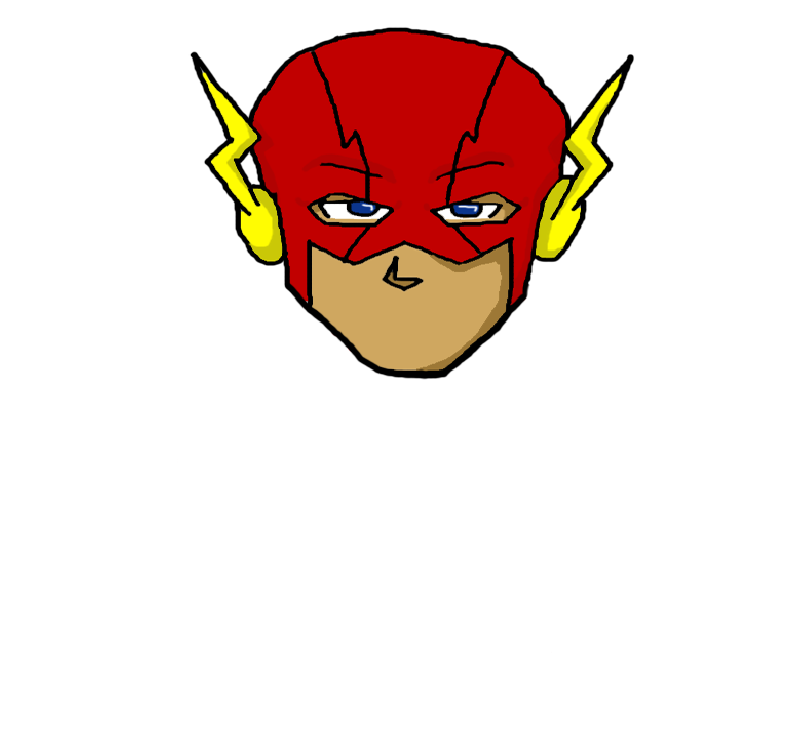
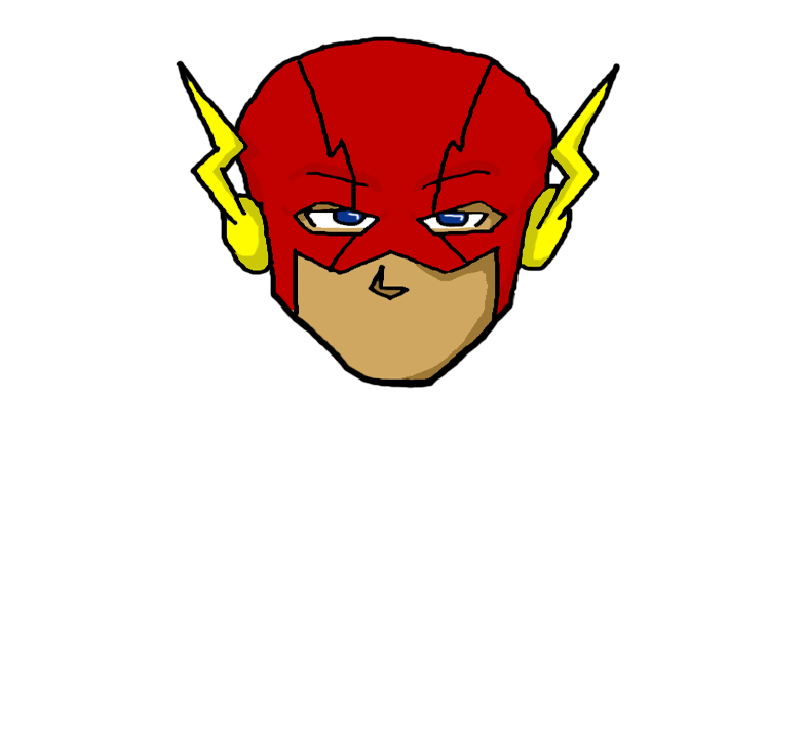
last commit

Changed region(s): [[0.2188, 0.0307, 0.8125, 0.5213]]

diff --git a/Picture Imperfect/GameScreen.cs b/Picture Imperfect/GameScreen.cs
@@ -7,28 +7,108 @@ using System.Linq;
 using System.Text;
 using System.Threading.Tasks;
 using System.Windows.Forms;
+using System.Threading;
 
 namespace Picture_Imperfect
 {
     public partial class GameScreen : UserControl
     {
+        //labelcountdown, sleep
+        //isnt able to stop the animation
+        //lock in body part
+        //work on the next body part 
+        //copyscreen needs to have random parts selected put into fullybody class
+        //compare to copyscreen
+        //work on player 2
+
+        
+        Graphics g;
+        Graphics hG;
+        Bitmap btm;
+        animation animateHead;
+        animation animateMouth;
+        animation animateShirt;
+        animation animateSymbol;
+
         public GameScreen()
         {
-            InitializeComponent();
-           
+            InitializeComponent();           
         }
 
         private void GameScreen_Paint(object sender, PaintEventArgs e)
         {
-            e.Graphics.DrawImage(Properties.Resources.Base, 30, 0, 372, 339);
+            e.Graphics.DrawImage(Properties.Resources.Base, 24, 0, 372, 339);
+            //have a buttonclickcount so that it can skip that animations to the next set
 
-            if ()
-            {
-            }
-            //e.Graphics.DrawImage(CopyScreen.body[6], 20, 23, 372, 339); //Shirt
-            //e.Graphics.DrawImage(CopyScreen.body[11], 20, 23, 372, 339); //Symbol
-            //e.Graphics.DrawImage(CopyScreen.body[0], 20, 23, 372, 339); //Head
-            //e.Graphics.DrawImage(CopyScreen.body[1], 20, 23, 372, 339); //Mouth
+            
+                //count down from 3, text in the middle of the screen
+                //when count == 0
+                //make it loop the head image in the list . 0,4,8
+                //lock the int of the chosen head to the string                         
+                
         }
+
+        private void GameScreen_Load(object sender, EventArgs e)
+        {
+            for (int x = 3; x >= 0; x--)
+            {
+                labelCountDown.Text = Convert.ToString(x);
+                Refresh();
+                Thread.Sleep(100);               
+            }
+            if (labelCountDown.Text == "0")
+            {
+                timer1.Start();
+            }
+
+            g = this.CreateGraphics();
+            btm = new Bitmap (372, 339);                   
+            hG = Graphics.FromImage(btm);
+
+           animateHead = new animation(new Bitmap[] {Properties.Resources.Flash_Head, Properties.Resources.SHead_Size,
+                Properties.Resources.Captain_America_Head});
+
+           animateMouth = new animation(new Bitmap[] {Properties.Resources.Flash_Mouth, Properties.Resources.SMouth_Size,
+                Properties.Resources.Captain_America_Mouth});
+
+           animateShirt = new animation(new Bitmap[] {Properties.Resources.Flash_Shirt, Properties.Resources.S_Shirt_size,
+                Properties.Resources.Captain_America_Shirt});
+
+           animateSymbol = new animation(new Bitmap[] {Properties.Resources.Flash_Symbol, Properties.Resources.Symbol_Size,
+                Properties.Resources.Captain_America_Symbol});             
+        }       
+
+        private void timer1_Tick(object sender, EventArgs e)
+        {
+            hG.DrawImage(animateHead.GiveNextImage(),20,23,372,339);
+            g.DrawImage(btm, Point.Empty);            
+        }
+
+        private void timer2_Tick(object sender, EventArgs e)
+        {            
+            hG.DrawImage(animateMouth.GiveNextImage(), 20, 23, 372, 339);
+            g.DrawImage(btm, Point.Empty);
+        }
+
+        private void GameScreen_PreviewKeyDown(object sender, PreviewKeyDownEventArgs e)
+        {
+            this.Focus();
+            switch (e.KeyCode)
+            {
+                case Keys.B:
+                    timer1.Stop();                                      
+                    timer2.Start();         
+                    break;
+                case Keys.C:
+                    
+                    break;
+                default:
+                    break;
+            }
+        }
+
+       
+
+       
     }
 }

diff --git a/Picture Imperfect/GameScreen.Designer.cs b/Picture Imperfect/GameScreen.Designer.cs
@@ -28,12 +28,17 @@
         /// </summary>
         private void InitializeComponent()
         {
+            this.components = new System.ComponentModel.Container();
             this.pictureBox1 = new System.Windows.Forms.PictureBox();
+            this.labelCountDown = new System.Windows.Forms.Label();
+            this.timer1 = new System.Windows.Forms.Timer(this.components);
+            this.timer2 = new System.Windows.Forms.Timer(this.components);
             ((System.ComponentModel.ISupportInitialize)(this.pictureBox1)).BeginInit();
             this.SuspendLayout();
             // 
             // pictureBox1
             // 
+            this.pictureBox1.Image = global::Picture_Imperfect.Properties.Resources.Base;
             this.pictureBox1.Location = new System.Drawing.Point(17, 395);
             this.pictureBox1.Name = "pictureBox1";
             this.pictureBox1.Size = new System.Drawing.Size(372, 339);
@@ -41,22 +46,51 @@
             this.pictureBox1.TabIndex = 0;
             this.pictureBox1.TabStop = false;
             // 
+            // labelCountDown
+            // 
+            this.labelCountDown.AutoSize = true;
+            this.labelCountDown.BackColor = System.Drawing.Color.Lime;
+            this.labelCountDown.Font = new System.Drawing.Font("OCR A Std", 71.99999F, System.Drawing.FontStyle.Bold, System.Drawing.GraphicsUnit.Point, ((byte)(0)));
+            this.labelCountDown.Location = new System.Drawing.Point(350, 315);
+            this.labelCountDown.Name = "labelCountDown";
+            this.labelCountDown.Size = new System.Drawing.Size(115, 102);
+            this.labelCountDown.TabIndex = 1;
+            this.labelCountDown.Text = "3";
+            // 
+            // timer1
+            // 
+            this.timer1.Interval = 500;
+            this.timer1.Tick += new System.EventHandler(this.timer1_Tick);
+            // 
+            // timer2
+            // 
+            this.timer2.Interval = 500;
+            this.timer2.Tick += new System.EventHandler(this.timer2_Tick);
+            // 
             // GameScreen
             // 
             this.AutoScaleDimensions = new System.Drawing.SizeF(6F, 13F);
             this.AutoScaleMode = System.Windows.Forms.AutoScaleMode.Font;
             this.BackgroundImage = global::Picture_Imperfect.Properties.Resources.Game_Screen_White;
+            this.Controls.Add(this.labelCountDown);
             this.Controls.Add(this.pictureBox1);
+            this.DoubleBuffered = true;
             this.Name = "GameScreen";
             this.Size = new System.Drawing.Size(800, 750);
+            this.Load += new System.EventHandler(this.GameScreen_Load);
             this.Paint += new System.Windows.Forms.PaintEventHandler(this.GameScreen_Paint);
+            this.PreviewKeyDown += new System.Windows.Forms.PreviewKeyDownEventHandler(this.GameScreen_PreviewKeyDown);
             ((System.ComponentModel.ISupportInitialize)(this.pictureBox1)).EndInit();
             this.ResumeLayout(false);
+            this.PerformLayout();
 
         }
 
         #endregion
 
         private System.Windows.Forms.PictureBox pictureBox1;
+        private System.Windows.Forms.Label labelCountDown;
+        private System.Windows.Forms.Timer timer1;
+        private System.Windows.Forms.Timer timer2;
     }
 }

diff --git a/Picture Imperfect/CopyScreen.cs b/Picture Imperfect/CopyScreen.cs
@@ -18,11 +18,21 @@ namespace Picture_Imperfect
         //make game go through the order and pause and lock in keypress
         //high score XML file
 
-        public static Image[] body;
 
+        public static Image[] body;
+        int partNum;
+        int shirt;
+        int symbol;
+        int mouth;
+        int head;
+        Random ranNum = new Random();
+        
+     
         public CopyScreen()
         {
             InitializeComponent();
+
+            partNum = ranNum.Next(1, 4);
 
             body = new Image[20];
             body[0] = Properties.Resources.Flash_Head;
@@ -43,12 +53,46 @@ namespace Picture_Imperfect
 
         private void CopyScreen_Paint(object sender, PaintEventArgs e)
         {
-            e.Graphics.DrawImage(body[6], 0, 0, 800, 750); //Flash shirt
-            e.Graphics.DrawImage(body[7], 0, 0, 800, 750); //Flash symbol
-            e.Graphics.DrawImage(body[4], 0, 0, 800, 750); //Flash head
-            e.Graphics.DrawImage(body[5], 0, 0, 800, 750); //Flash mouth     
+            
+            //flash
+            if(partNum == 1)
+            {
+                shirt = 2;
+                symbol = 3;
+                head = 0;
+                mouth = 1;
+                e.Graphics.DrawImage(body[shirt], 0, 0, 800, 750); // shirt
+                e.Graphics.DrawImage(body[symbol], 0, 0, 800, 750); // symbol
+                e.Graphics.DrawImage(body[head], 0, 0, 800, 750); // head
+                e.Graphics.DrawImage(body[mouth], 0, 0, 800, 750); // mouth 
+            }
+            //superman
+            if (partNum == 2)
+            {
+                shirt = 6;
+                symbol = 7;
+                head = 4;
+                mouth = 5;
+                e.Graphics.DrawImage(body[shirt], 0, 0, 800, 750); // shirt
+                e.Graphics.DrawImage(body[symbol], 0, 0, 800, 750); // symbol
+                e.Graphics.DrawImage(body[head], 0, 0, 800, 750); // head
+                e.Graphics.DrawImage(body[mouth], 0, 0, 800, 750); // mouth 
+            }
 
-         }
+            //flash
+            if (partNum == 3)
+            {
+                shirt = 10;
+                symbol = 11;
+                head = 8;
+                mouth = 9;
+                e.Graphics.DrawImage(body[shirt], 0, 0, 800, 750); // shirt
+                e.Graphics.DrawImage(body[symbol], 0, 0, 800, 750); // symbol
+                e.Graphics.DrawImage(body[head], 0, 0, 800, 750); // head
+                e.Graphics.DrawImage(body[mouth], 0, 0, 800, 750); // mouth 
+            }
+
+        }
 
         private void CopyScreen_Load(object sender, EventArgs e)
         {

diff --git a/Picture Imperfect/animation.cs b/Picture Imperfect/animation.cs
@@ -1,0 +1,35 @@
+using System;
+using System.Collections.Generic;
+using System.Linq;
+using System.Text;
+using System.Threading.Tasks;
+using System.Drawing;
+
+namespace Picture_Imperfect
+{
+    public class animation
+    {
+        Bitmap[] parts;
+        int place = 0;
+
+        public animation(Bitmap[] Frames)
+        {
+            parts = Frames;
+        }
+
+        public Bitmap GiveNextImage()
+        {
+            Bitmap b = null;
+            if (place < parts.Length)
+            {
+                b = parts[place++];
+            }
+            else
+            {
+                place = 0;
+                b = parts[place++];
+            }
+            return b;
+        }
+    }
+}

diff --git a/Picture Imperfect/fullBody.cs b/Picture Imperfect/fullBody.cs
@@ -8,6 +8,13 @@ namespace Picture_Imperfect
 {
     class fullBody
     {
-        //http://icscentral.pbworks.com/w/page/36393717/Course%20Outline%20ICS4U, shared notes
+        public string head, mouth, shirt, symbol;
+        public fullBody(string _head, string _mouth, string _shirt, string _symbol)
+        {
+            head = _head;
+            mouth = _mouth;
+            shirt = _shirt;
+            symbol = _symbol;
+        }
     }
 }
